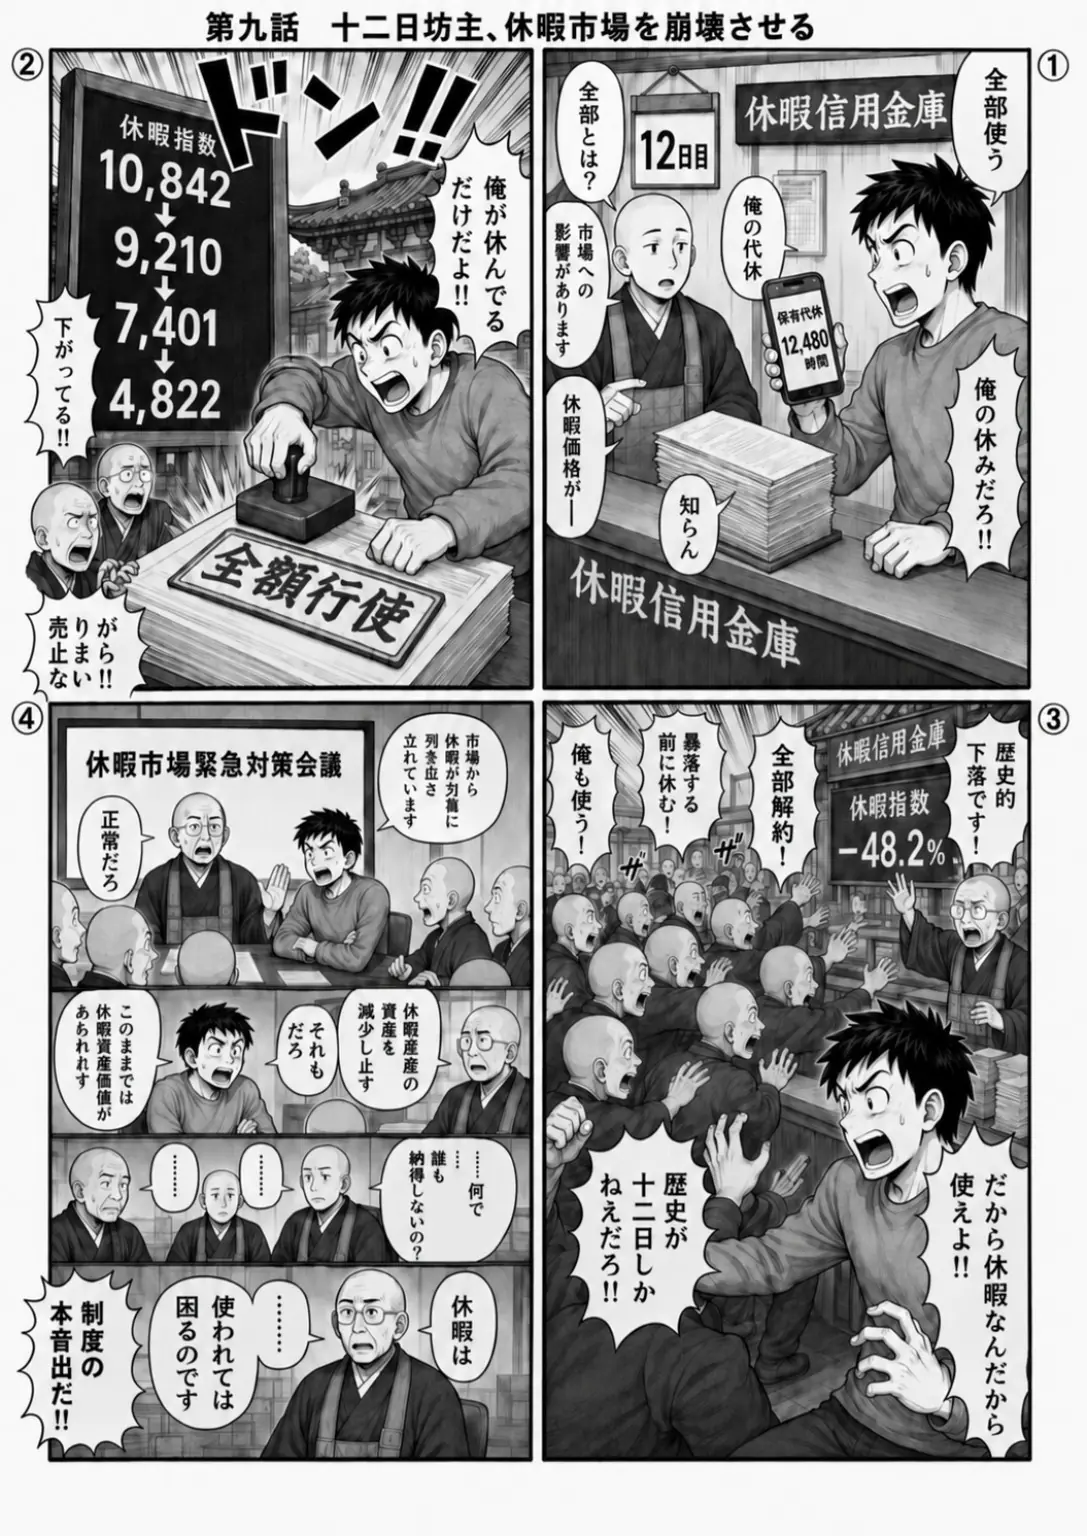
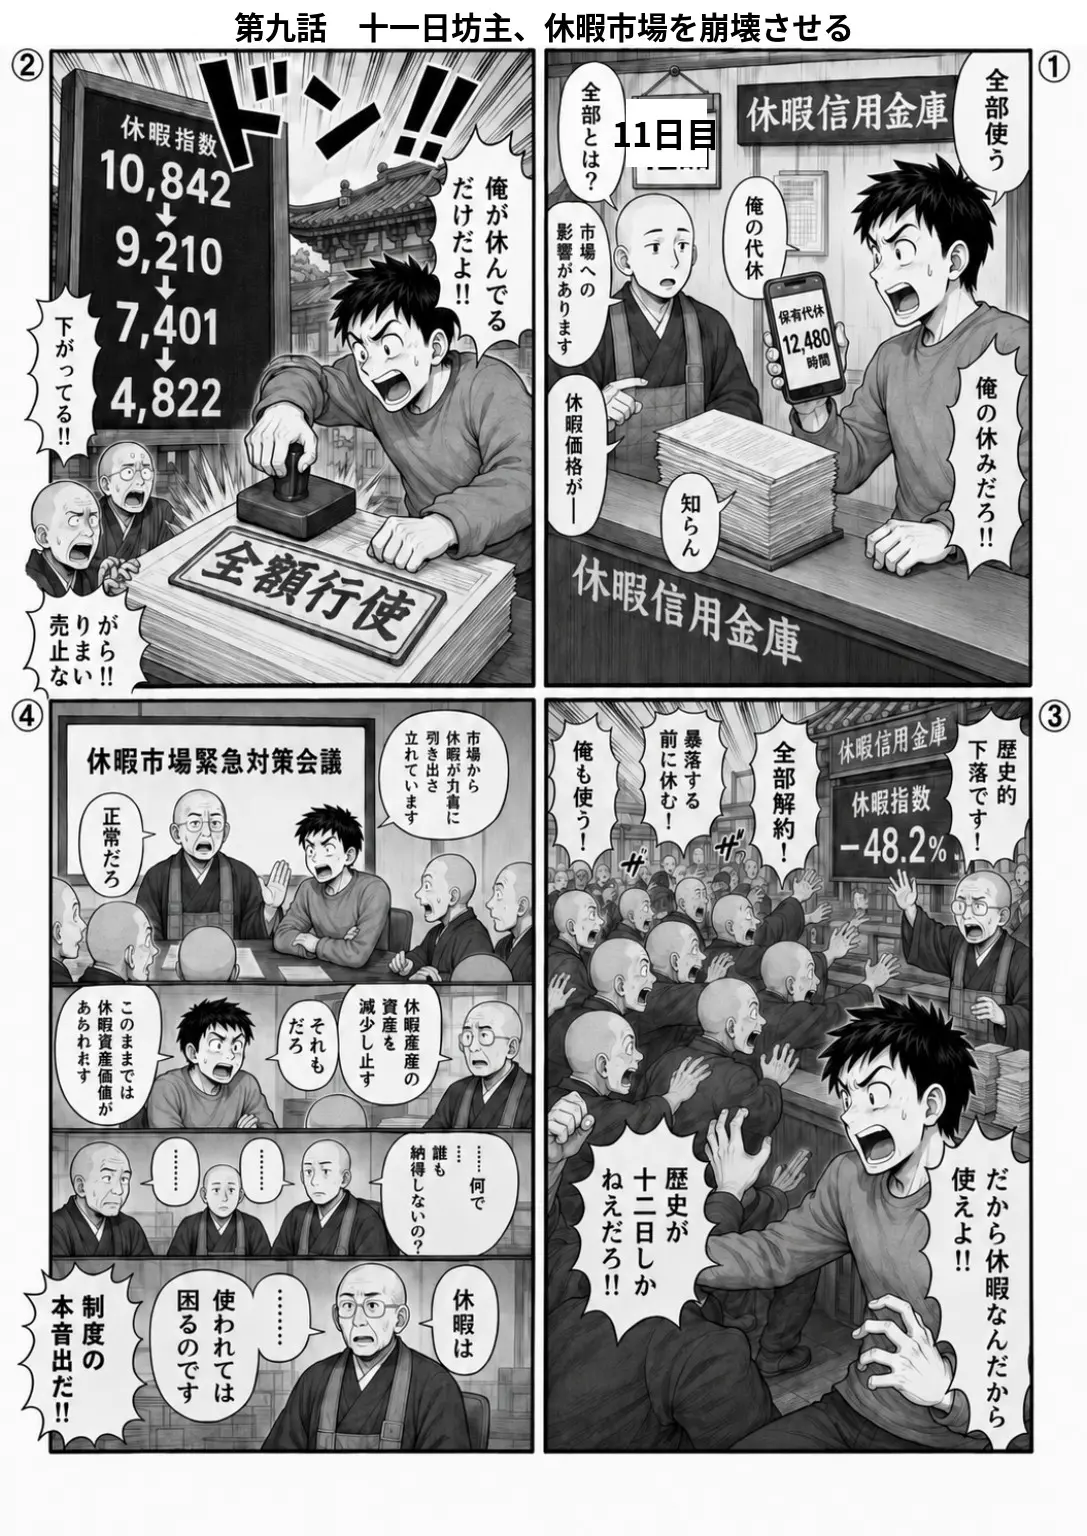
fix: correct episode 9 to 十一日坊主

Changed region(s): [[0.0, 0.0, 1.0, 0.9688]]

diff --git a/episodes/009/script.md b/episodes/009/script.md
@@ -1,4 +1,4 @@
-# 第九話　十二日坊主、休暇市場を崩壊させる
+# 第九話　十一日坊主、休暇市場を崩壊させる
 
 前回、代休は「使うもの」ではなく、貯めて増やす休暇資産になった。休暇信用金庫や投資商品まで生まれ、坊主たちは休まず働くほど将来の休暇が増える制度へ組み込まれていく。
 
